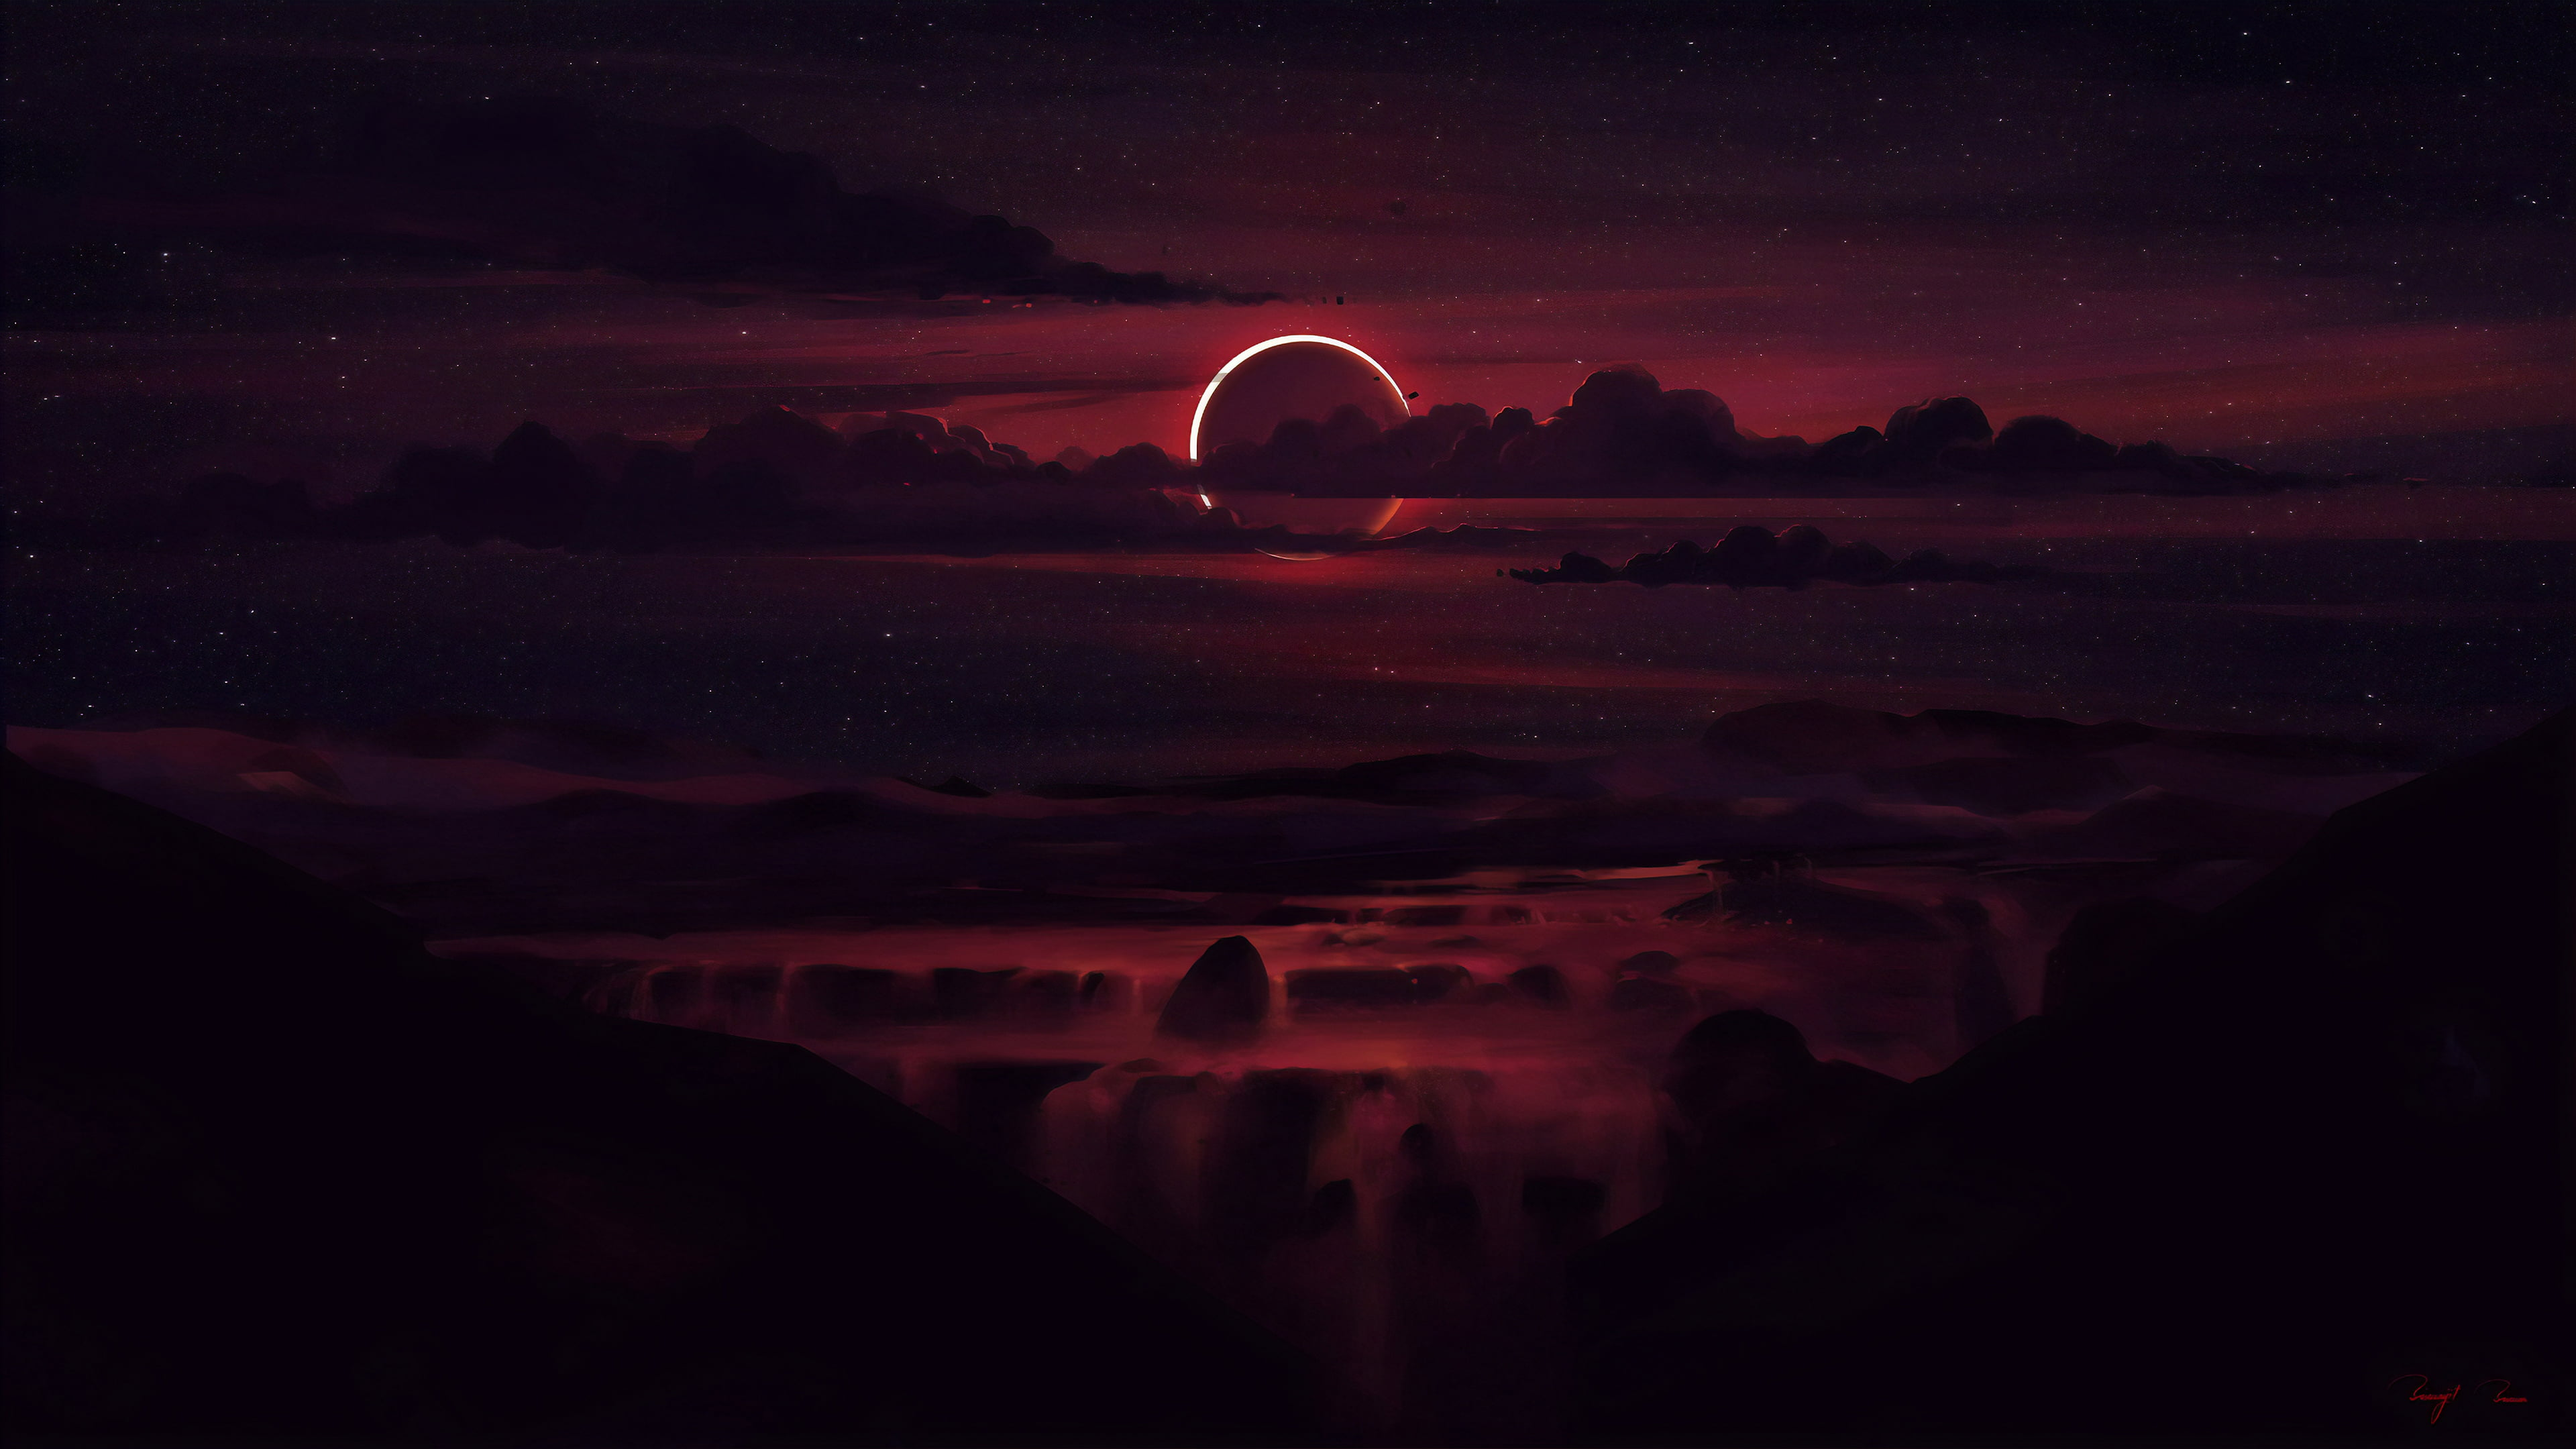
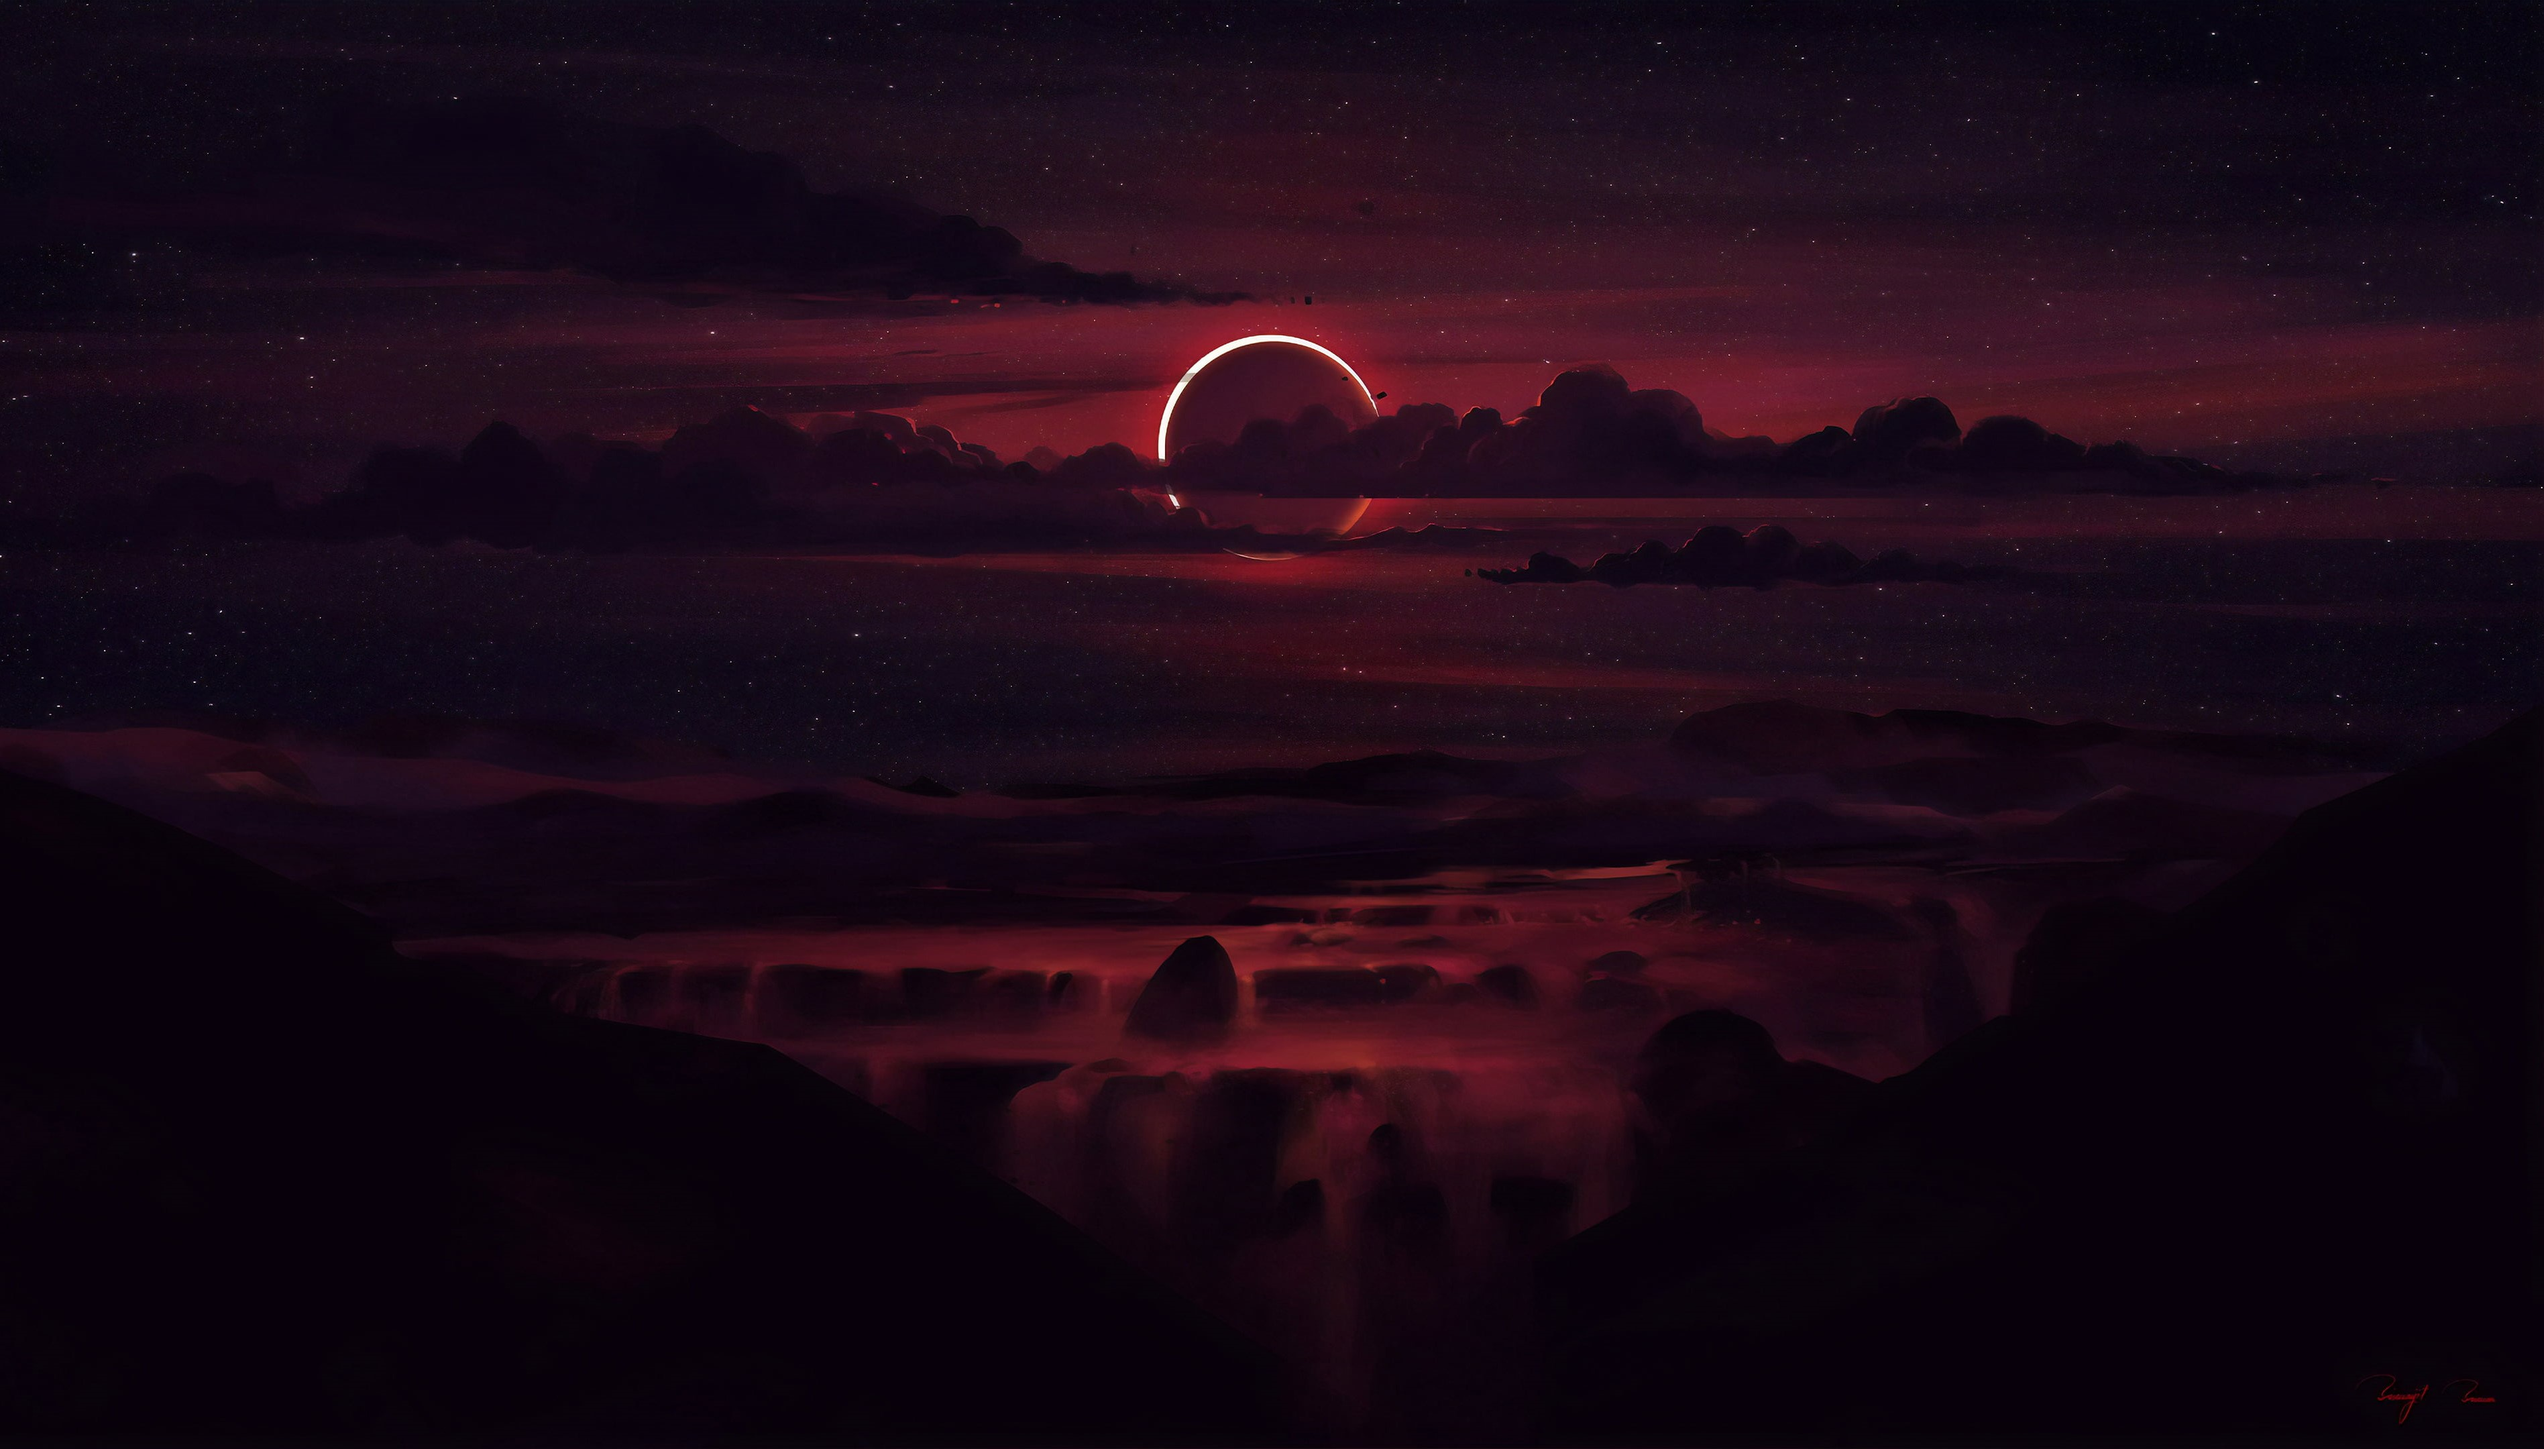
overflow auto and img center

diff --git a/src/components/BaseModal.vue b/src/components/BaseModal.vue
@@ -2,7 +2,7 @@
     <Teleport to="body">
         <Transition name="modal-outer">
             <div v-show="modalActive"
-                class="absolute w-full bg-black bg-opacity-30 h-screen top-0 left-0 flex justify-center px-8">
+                class="absolute w-full overflow-auto bg-black bg-opacity-30 h-screen top-0 left-0 flex justify-center px-8">
                 <Transition name="modal-inner">
                     <div v-if="modalActive" class="p-4 bg-gray-300 self-start mt-32 max-w-screen-md rounded-3xl">
                         <slot />

diff --git a/src/App.vue b/src/App.vue
@@ -1,6 +1,6 @@
 <template>
   <div class="flex flex-col min-h-screen font-Roboto bg-red-400 bg-cover bg-center"
-    style="background-image: url('/images/weather-img6.jpg');">
+    style="background-image: url('/images/weather-img6.jpg'); background-position:center;">
     <SiteNavigation />
     <RouterView v-slot="{ Component }">
       <Transition name="page" mode="out-in">
